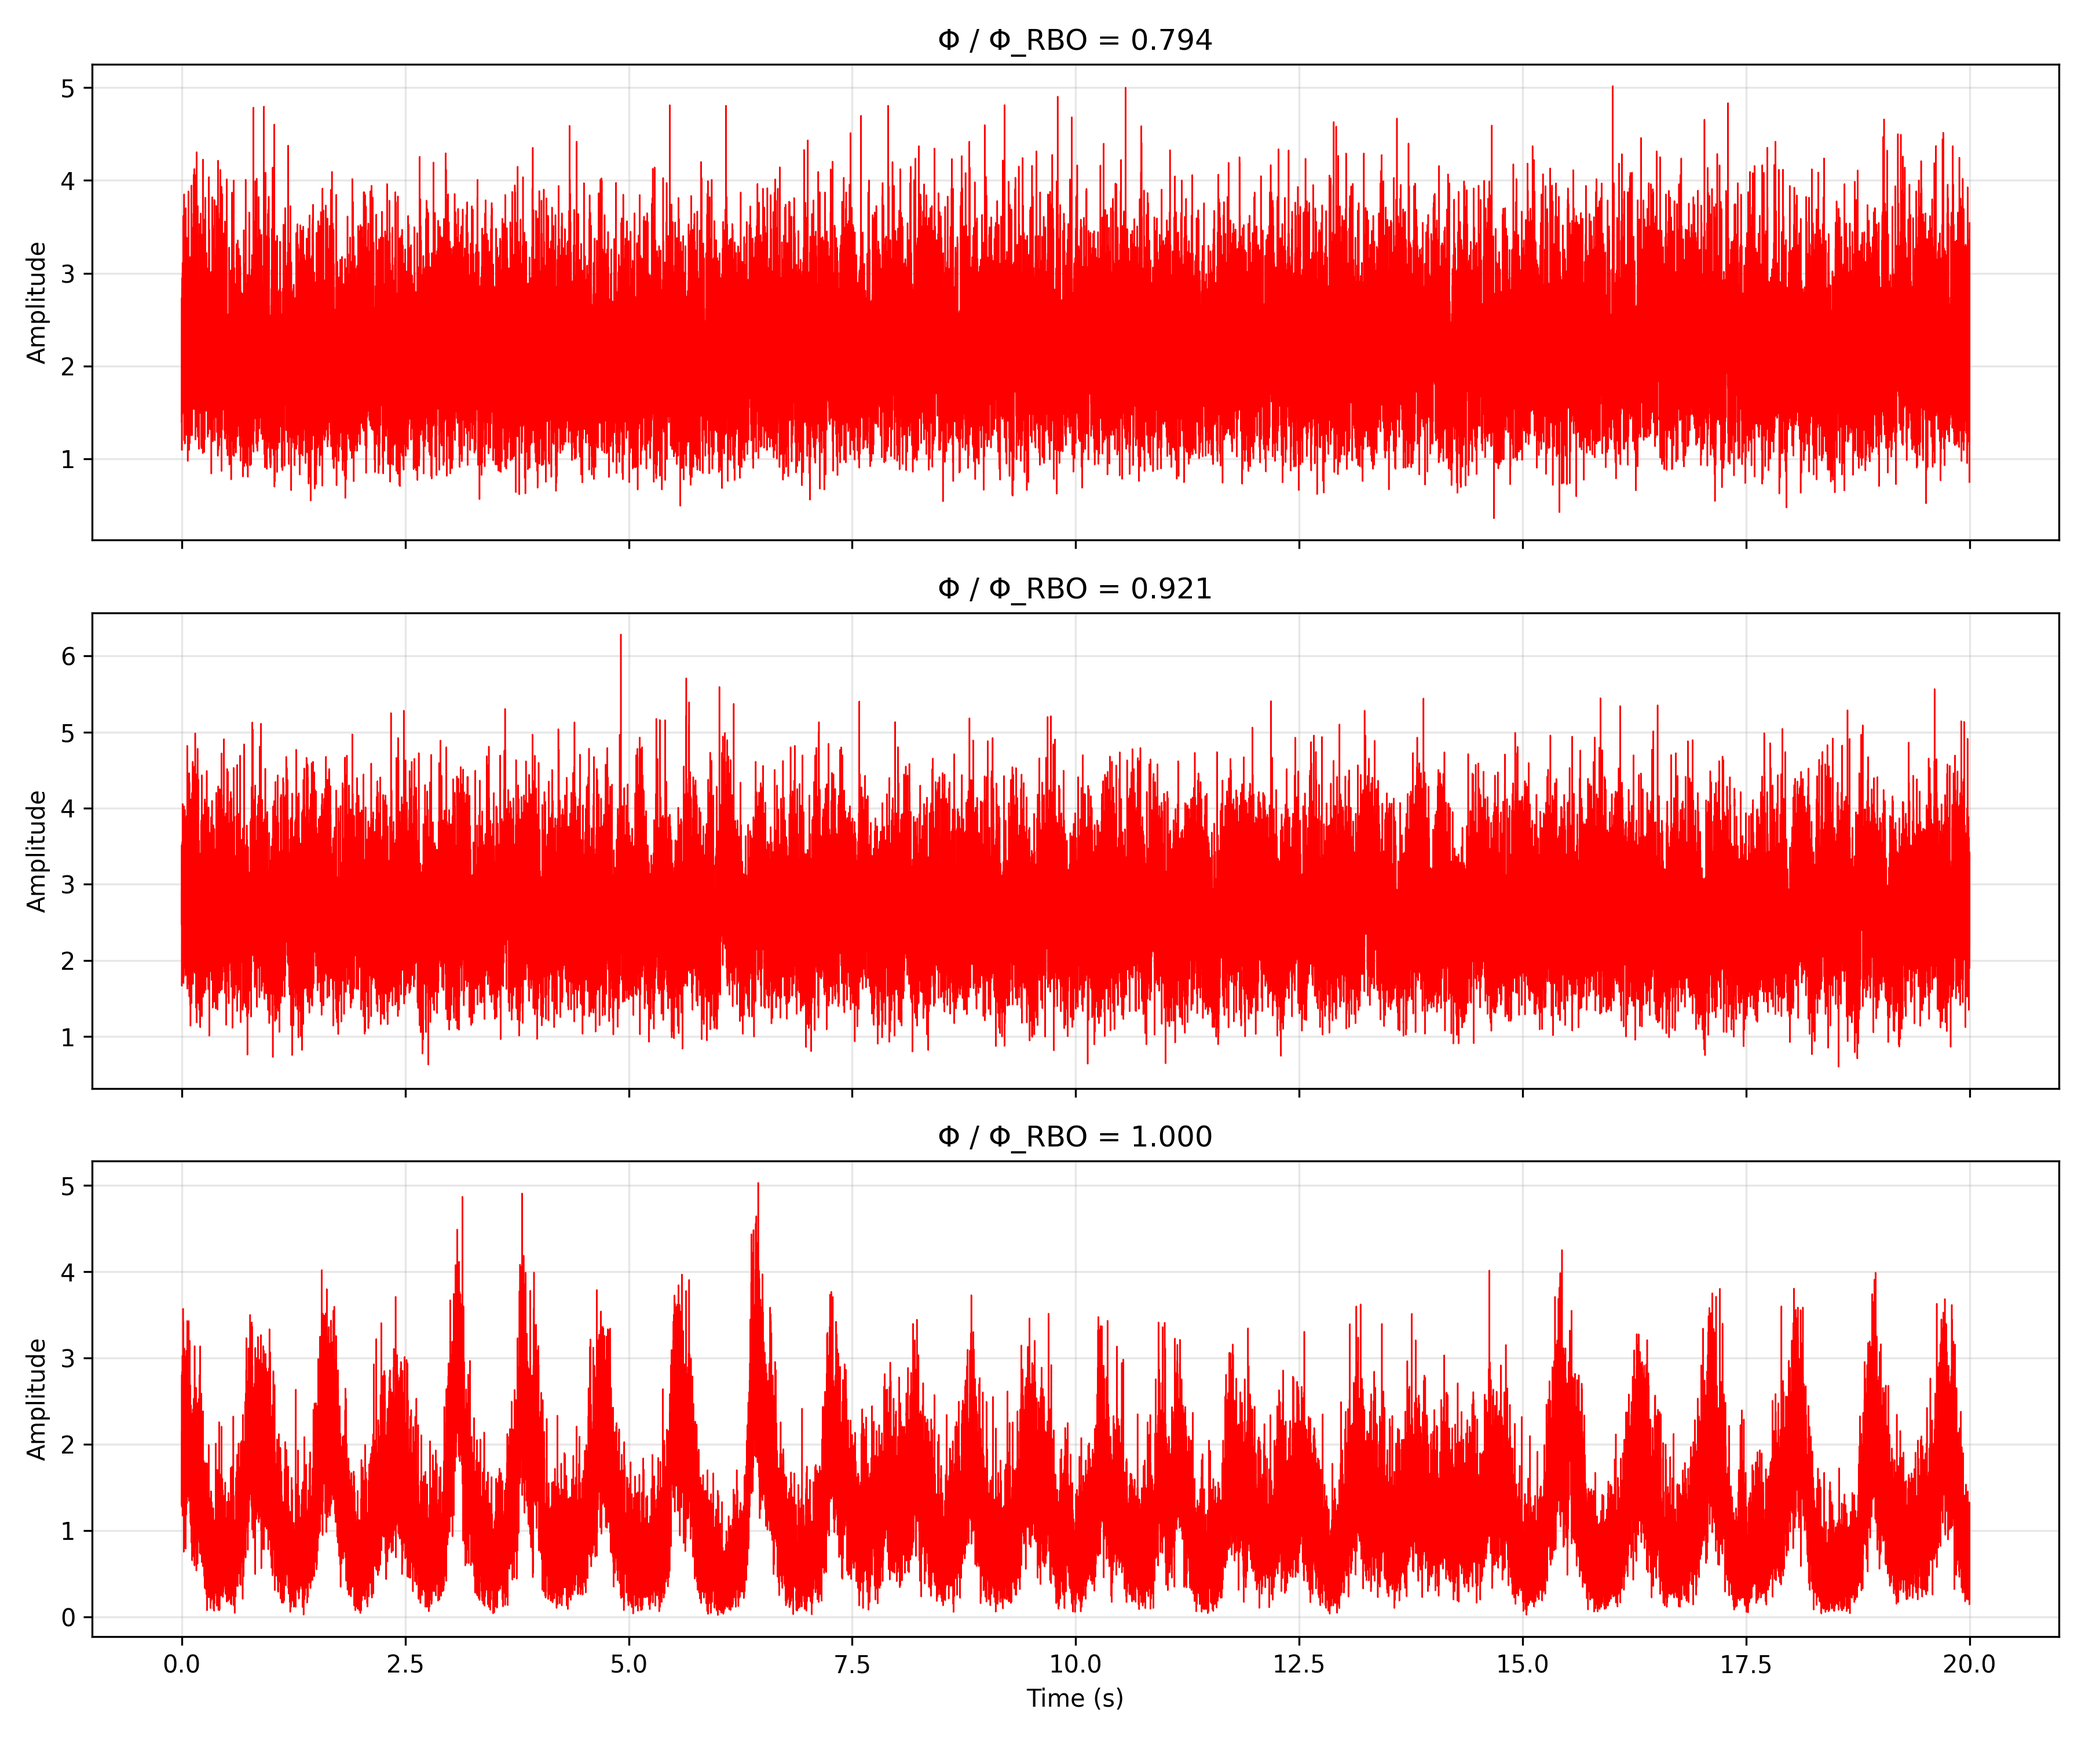
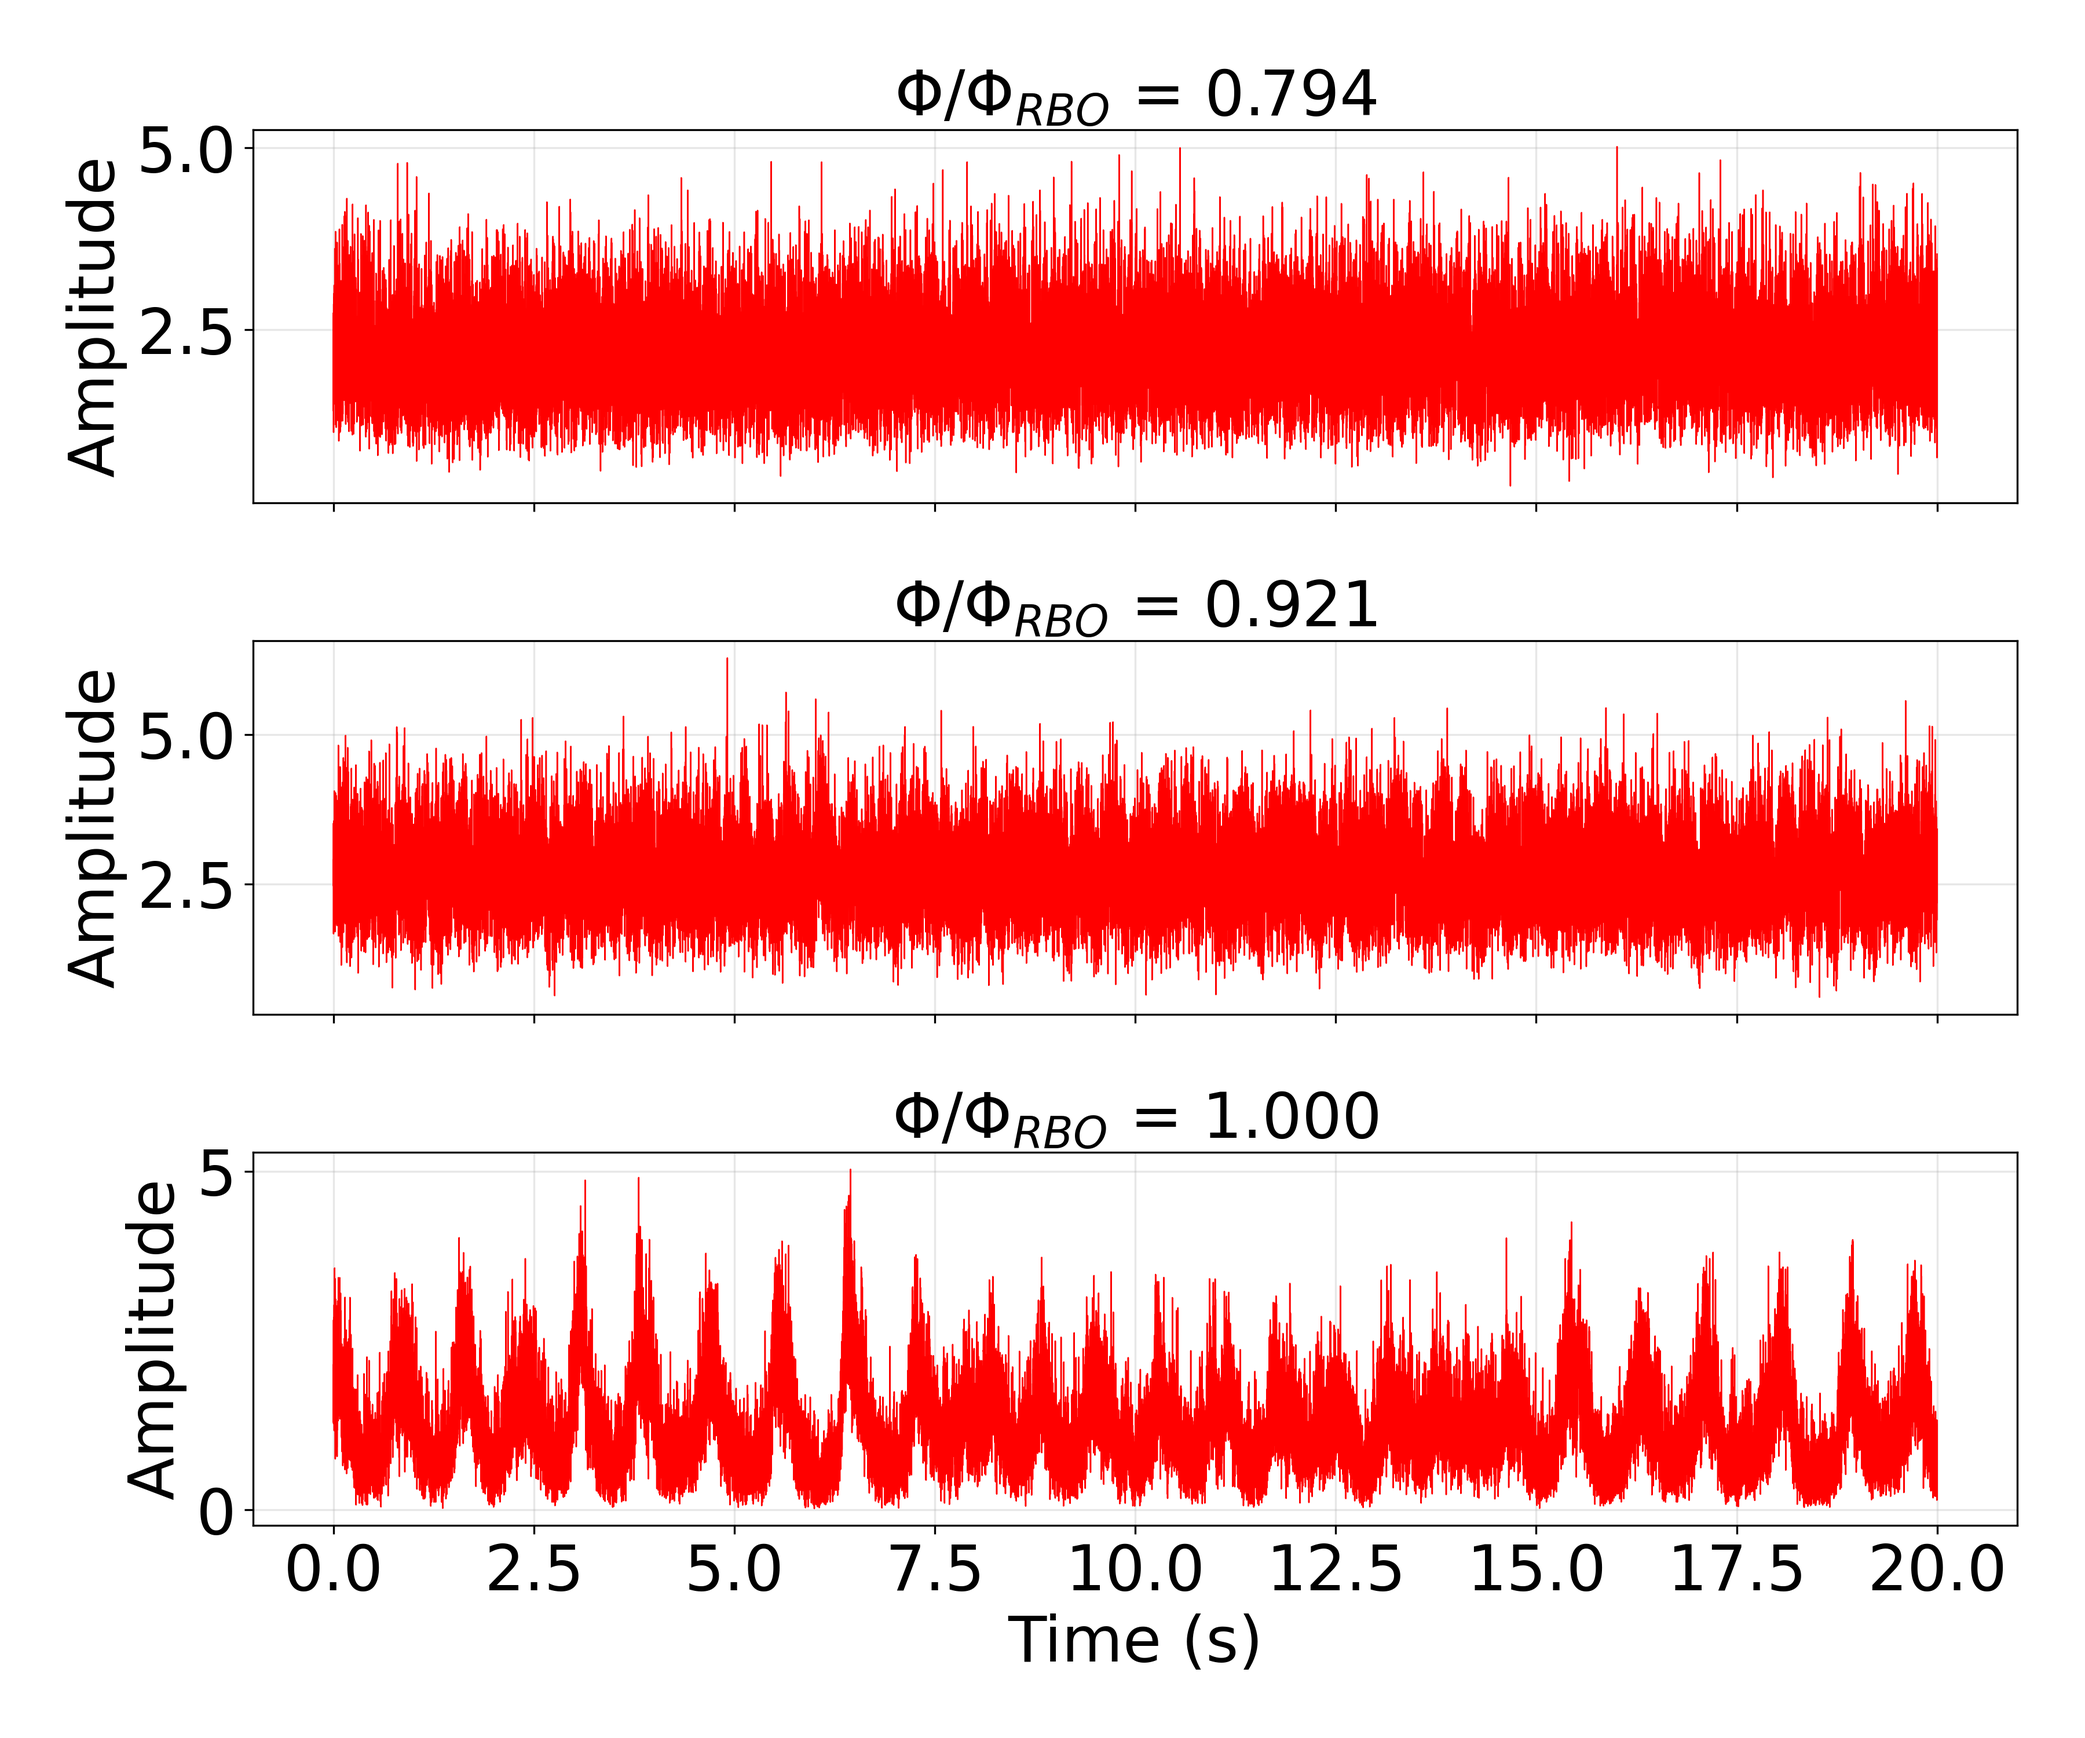
Changed font size from 19 to 26 upon request

diff --git a/Autorcorrelation.py b/Autorcorrelation.py
@@ -1,0 +1,94 @@
+"""
+this file is to simulate the autocorrelation for RBO
+the graph describes temporal behaviour of the signal
+
+The fig includes:
+
+Autocorrelation decay for three fuel conditions:
+1. Low fuel (stable)
+2. Mid fuel
+3. Near RBO
+
+We find:
+--> correlation reduces as lag increases
+--> behaviour changes as we approach RBO
+"""
+
+"""
+same method as LBO.
+we compute normalized autocorrelation and plot decay
+over a short lag window.
+"""
+
+# imports
+import numpy as np
+import matplotlib.pyplot as plt
+import os
+
+# plot settings for larger fonts
+plt.rcParams.update({
+    "font.size": 26,
+    "axes.labelsize": 26,
+    "xtick.labelsize": 26,
+    "ytick.labelsize": 26,
+    "axes.titlesize": 26
+})
+
+# variables
+phi_rbo = 6.3
+
+# choose same 3 cases
+plot_files = ["5.0.txt", "5.8.txt", "6.3.txt"]
+
+plt.figure(figsize=(10, 6))
+
+for file in plot_files:
+    
+    file_path = file
+    
+    # load data
+    data = np.loadtxt(file_path)
+    time = data[:, 0]
+    signal = data[:, 1]
+
+    # remove mean
+    signal = signal - np.mean(signal)
+
+    # sampling frequency
+    dt = time[1] - time[0]
+    fs = 1 / dt
+
+    # autocorrelation
+    corr = np.correlate(signal, signal, mode='full')
+    center = corr.size // 2
+
+    # take only positive lags
+    corr = corr[center:]
+    corr = corr / corr[0]
+
+    # time axis (ms)
+    lag = (np.arange(len(corr)) / fs) * 1000
+
+    # take only first 100 ms (same as LBO)
+    max_lag = int(0.1 * fs)
+
+    corr = corr[:max_lag]
+    lag = lag[:max_lag]
+
+    # normalized fuel ratio
+    fuel_val = float(file.replace(".txt", ""))
+    phi_norm = fuel_val / phi_rbo
+
+    # plot
+    plt.plot(lag, corr, label=f"$\\Phi/\\Phi_{{RBO}}$ = {phi_norm:.3f}")
+
+# formatting
+plt.xlabel("Lag Time (ms)")
+plt.ylabel("Autocorrelation Coefficient")
+plt.axhline(0, color='black', linewidth=1, alpha=0.5)
+plt.grid(True, alpha=0.3)
+plt.legend()
+
+plt.tight_layout()
+plt.savefig("Figure_5_RBO_Autocorrelation.png", dpi=300)
+plt.show()

diff --git a/PSD.py b/PSD.py
@@ -27,11 +27,11 @@ import os
 
 # plot settings (same style as before)
 plt.rcParams.update({
-    "font.size": 16,
-    "axes.labelsize": 18,
-    "xtick.labelsize": 14,
-    "ytick.labelsize": 14,
-    "legend.fontsize": 14
+    "font.size": 26,
+    "axes.labelsize": 26,
+    "xtick.labelsize": 26,
+    "ytick.labelsize": 26,
+    "legend.fontsize": 26
 })
 
 # variables
@@ -69,7 +69,7 @@ for file in plot_files:
     phi_norm = fuel_val / phi_rbo
 
     # plot
-    plt.semilogy(frequencies, psd, label=f"Φ/Φ_RBO = {phi_norm:.3f}")
+    plt.semilogy(frequencies, psd, label=f"$\\Phi/\\Phi_{{RBO}}$ = {phi_norm:.3f}")
 
     # find peak (ignore DC)
     peak_index = np.argmax(psd[1:]) + 1

diff --git a/TimeSeries.py b/TimeSeries.py
@@ -20,6 +20,15 @@ import numpy as np
 import matplotlib.pyplot as plt
 import os
 
+# plot settings for larger fonts
+plt.rcParams.update({
+    "font.size": 26,
+    "axes.labelsize": 26,
+    "xtick.labelsize": 26,
+    "ytick.labelsize": 26,
+    "axes.titlesize": 26
+})
+
 # variables
 phi_rbo = 6.3   # given
 
@@ -49,7 +58,7 @@ for i, file in enumerate(plot_files):
     axes[i].plot(time, signal, color="#ff0000", linewidth=0.6)
     
     # title with normalized value
-    axes[i].set_title(f"Φ / Φ_RBO = {phi_norm:.3f}")
+    axes[i].set_title(f"$\\Phi/\\Phi_{{RBO}}$ = {phi_norm:.3f}")
     axes[i].set_ylabel("Amplitude")
     axes[i].grid(True, alpha=0.3)
 

diff --git a/NRMS.py b/NRMS.py
@@ -23,6 +23,15 @@ import numpy as np
 import matplotlib.pyplot as plt
 import os
 
+# plot settings for larger fonts
+plt.rcParams.update({
+    "font.size": 26,
+    "axes.labelsize": 26,
+    "xtick.labelsize": 26,
+    "ytick.labelsize": 26,
+    "axes.titlesize": 26
+})
+
 # variables
 phi_rbo = 6.3
 
@@ -75,9 +84,9 @@ plt.axhline(y=0.3, linestyle='--', color='black')
 plt.axvline(x=0.9576, linestyle='--', color='red')
 
 # labels
-plt.xlabel("Normalized Fuel Ratio (Φ/Φ_RBO)")
+plt.xlabel("Normalized Fuel Ratio ($\\Phi/\\Phi_{{RBO}}$)") 
 plt.ylabel("NRMS")
-plt.title("NRMS Variation Approaching RBO")
+
 
 plt.grid(True, alpha=0.3)
 

diff --git a/PDF_CURVV.py b/PDF_CURVV.py
@@ -26,6 +26,15 @@ import matplotlib.pyplot as plt
 from scipy.stats import norm
 import os
 
+# plot settings for larger fonts
+plt.rcParams.update({
+    "font.size": 26,
+    "axes.labelsize": 26,
+    "xtick.labelsize": 26,
+    "ytick.labelsize": 26,
+    "axes.titlesize": 26
+})
+
 # variables
 phi_rbo = 6.3
 
@@ -60,7 +69,7 @@ for i, file in enumerate(plot_files):
     fuel_val = float(file.replace(".txt", ""))
     phi_norm = fuel_val / phi_rbo
 
-    plt.title(f"Φ/Φ_RBO = {phi_norm:.3f}")
+    plt.title(f"$\\Phi/\\Phi_{{RBO}}$ = {phi_norm:.3f}")
     plt.xlabel("Normalized amplitude")
     plt.ylim(0, 0.6)
 
